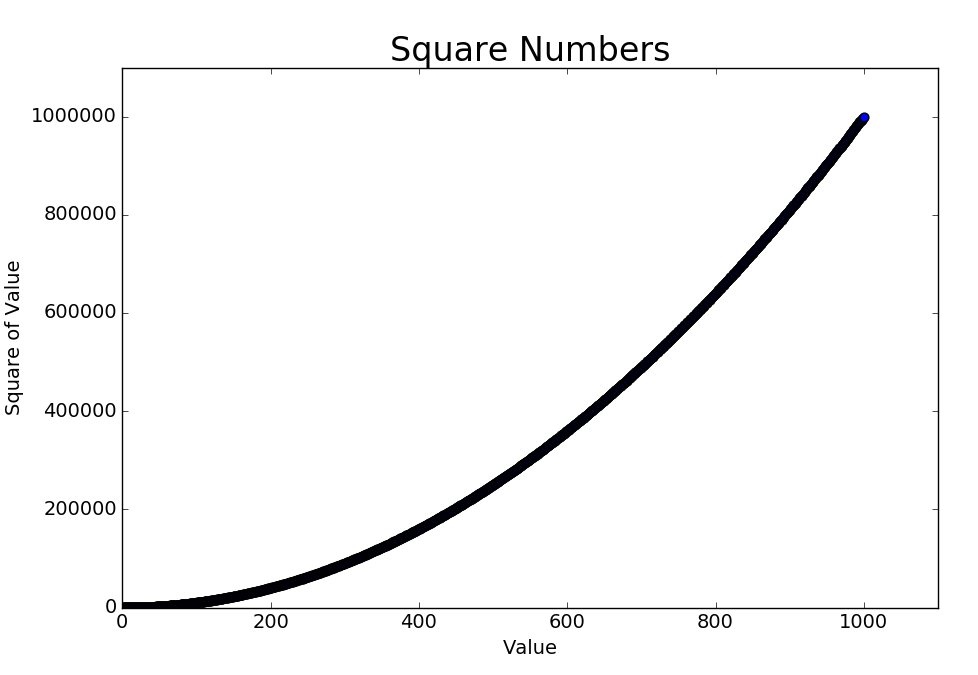
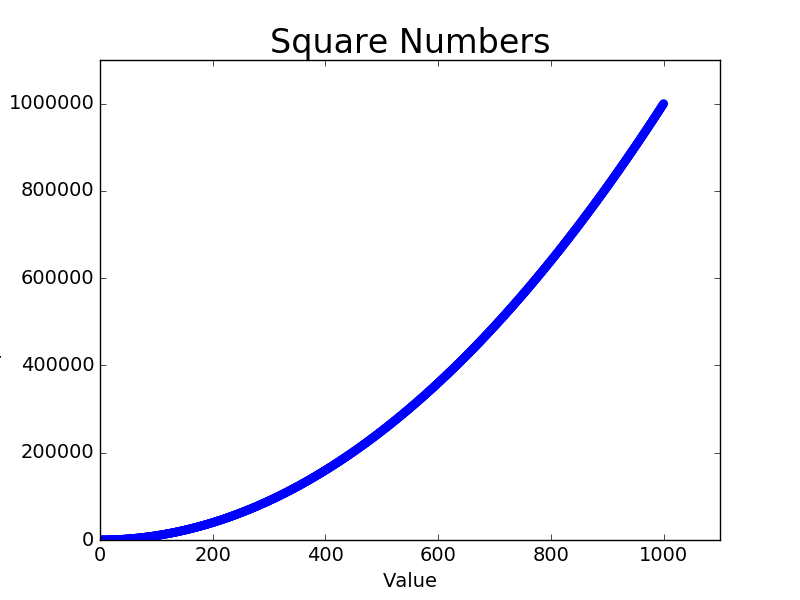
remove outlines from data points

diff --git a/scatter_squares.py b/scatter_squares.py
@@ -3,7 +3,7 @@ import matplotlib.pyplot as plt
 x_values = list(range(1, 1001))
 y_values = [x**2 for x in x_values]
 
-plt.scatter(x_values, y_values, s=40)
+plt.scatter(x_values, y_values, edgecolor='none', s=40)
 
 #set chart title and labels on axes
 plt.title("Square Numbers", fontsize=24)
